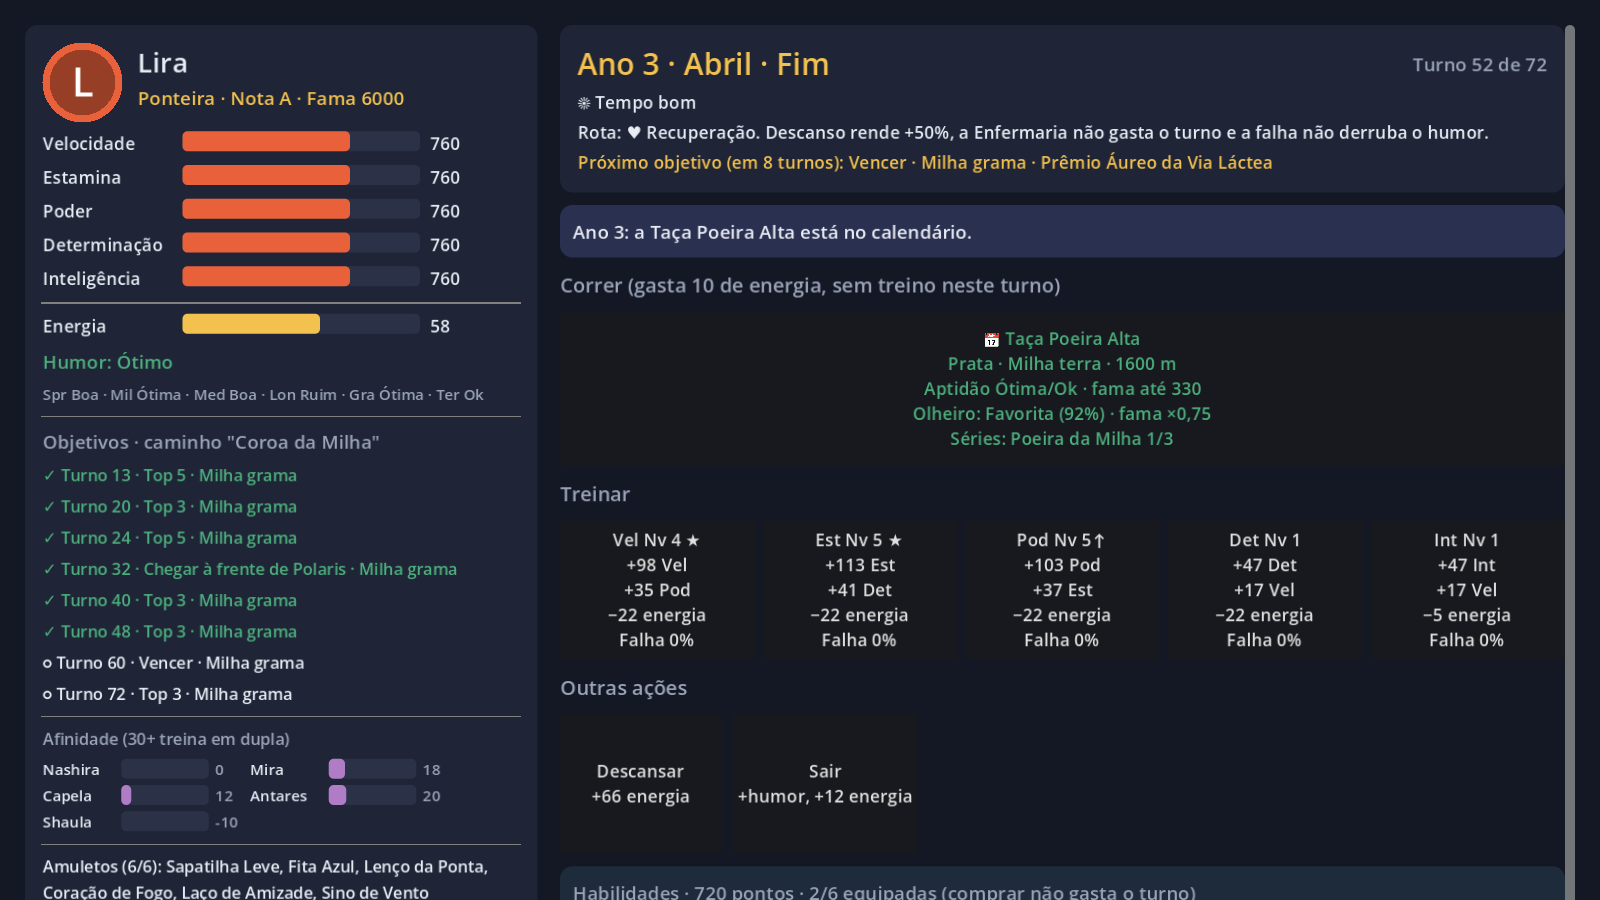
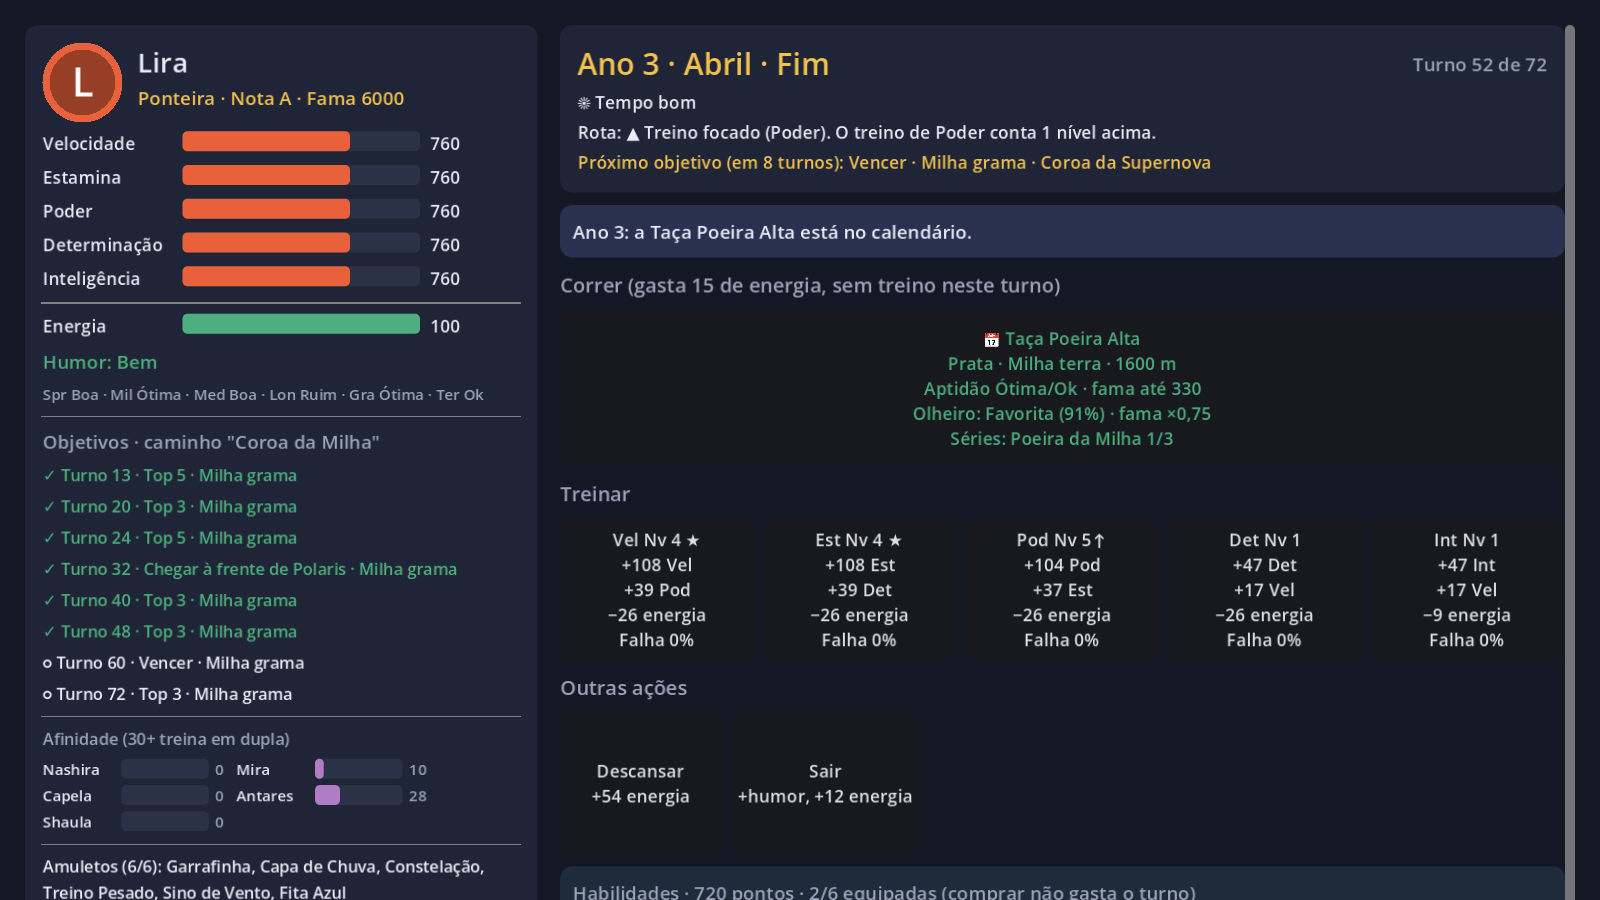
Resultados do bot com olheiro, instrução e séries; capturas novas
Conta nova 32,8% e conta madura 55,4% de carreiras completas, maior queda
por objetivo 18%.

Claude-Session: https://claude.ai/code/session_01PTJmZhAyiWUoRyeLfGbqx5

diff --git a/docs/campanhas.md b/docs/campanhas.md
@@ -1,5 +1,6 @@
 # Nekomusume — Campanhas e balanceamento
 
+> Versão 0.3 — 2026-11-17. Na v0.3 entraram o olheiro, a instrução pré-corrida, as séries e a madrinha no protótipo, e o bot rodou de novo (§7).
 > Versão 0.2 — 2026-11-17. Na v0.2 entraram os resultados do bot na carreira de 72 turnos (§7) e as regras de virada calibradas.
 > Versão 0.1 — 2026-11-17. Complementa o [calendário](calendario.md) §3 (estrutura da campanha) e o [elenco](elenco.md).
 > Valores marcados com **(inicial)** são pontos de partida para balanceamento.
@@ -542,43 +543,47 @@ Mexer sempre na ordem abaixo, um botão por vez, e rodar de novo:
 
 ## 7. Resultados
 
-Rodada de 2026-11-17 no protótipo de 72 turnos: **20 carreiras por garota e por conta** (sementes 1 a 20), as 48 garotas, 1.920 carreiras.
+Rodada de 2026-11-17 (v0.3), depois de entrarem o **olheiro**, a **instrução pré-corrida**, as **séries** e a **madrinha**: **20 carreiras por garota e por conta** (sementes 1 a 20), as 48 garotas, 1.920 carreiras. O bot agora corre só onde o olheiro diz Favorita ou Disputada e usa a instrução que ele sugere. A rodada anterior (v0.2, sem esses sistemas) deu 34,7% na conta nova e 55,9% na madura.
 
 ### 7.1 Conta nova
 
 | Objetivo | 1 (t13) | 2 (t20) | 3 (t24) | 4 (t32) | 5 (t40) | 6 (t48) | 7 (t60) | 8 (t72) |
 |---|---|---|---|---|---|---|---|---|
-| Passa | 93% | 84% | 75% | 65% | 57% | 48% | 41% | **35%** |
-| Queda de quem chega | 7% | 10% | 11% | 13% | 13% | 16% | 16% | 14% |
+| Passa | 93% | 83% | 72% | 58% | 51% | 45% | 38% | **33%** |
+| Queda de quem chega | 7% | 11% | 14% | 18% | 13% | 11% | 16% | 14% |
 
-- **Carreiras completas: 34,7%** (alvo 30% a 40%). Nenhum objetivo derruba mais de 16% de quem chega nele (teto 25%).
-- **Por casa:** de 31% (Média Grama e Milha Grama) a 38% (Longa Grama). Diferença de 7 pontos.
-- **Por arquétipo:** de 28% (Festeira) a 45% (Perfeccionista). Diferença de 17 pontos, acima da meta, mas cada arquétipo tem só 60 a 80 carreiras (±6 pontos de sorte). Fica para conferir numa rodada maior.
-- **Garotas:** de 25% a 50%, dentro do que a sorte explica com 20 carreiras cada.
-- **Curva de atributos:** 207 / 308 / 407 / 537 / 664 / 799 nos turnos 13, 24, 36, 48, 60 e 72 (alvo 200 / 330 / 460 / 590 / 700 / 800).
-- **18 corridas** por carreira (alvo 14 a 20). Fama média de 3.400 no turno 40.
-- **GP final vencido** em 30% das carreiras: é o ritmo para liberar a Magnitude 1.
-- **Depois da virada**, o caminho A completa 74% e o B 70%.
+- **Carreiras completas: 32,8%** (alvo ~35%, faixa de 30% a 40%). Nenhum objetivo derruba mais de 18% de quem chega nele (teto 25%). O mais duro é o objetivo 4 (turno 32), a primeira Prata.
+- **Por casa:** de 24% (Média Terra) a 40% (Sprint Terra). Diferença de 16 pontos, maior que os 7 da v0.2: a instrução Forçar ajuda muito na Sprint, e o multiplicador de distância da Sprint subiu de ×0,95 para ×0,99 para compensar.
+- **Por arquétipo:** de 26% (Capitã e Estrategista) a 45% (Teimosa). Diferença de 19 pontos, ainda acima da meta de 10.
+- **Garotas:** de 15% (Hamal) a 50%. Com 20 carreiras cada, a sorte explica ±11 pontos.
+- **Curva de atributos:** 207 / 311 / 416 / 551 / 680 / 812 nos turnos 13, 24, 36, 48, 60 e 72 (alvo 200 / 330 / 460 / 590 / 700 / 800).
+- **16,4 corridas** por carreira (alvo 14 a 20). Fama média de 2.840 no turno 40 (era 3.400): o olheiro dá ×0,75 nas corridas em que ela é Favorita.
+- **GP final vencido** em 29% das carreiras. Depois da virada, o caminho A completa 75% e o B 70%.
+- **Olheiro:** nas corridas do bot, 65% Favorita, 34% Disputada e 1% Azarão (o bot evita o Azarão de propósito, então é o jogador que arrisca quem vai ver mais).
+- **Instrução sugerida:** Forçar 42%, Poupar 42%, Normal 16%. Nenhuma é sempre a melhor (GDD §5.7 e `testes/instrucao.gd`).
+- **Títulos por carreira:** Coroa Dupla 0,42, Volta ao Céu 0,15, Tríplice da casa 0,12. A Coroa Dupla sai fácil demais (o bot não planeja rota e mesmo assim consegue), então vale ficar de olho.
 
 ### 7.2 Conta madura
 
 | Objetivo | 1 | 2 | 3 | 4 | 5 | 6 | 7 | 8 |
 |---|---|---|---|---|---|---|---|---|
-| Passa | 99% | 96% | 92% | 85% | 78% | 71% | 63% | **56%** |
+| Passa | 98% | 94% | 89% | 79% | 74% | 68% | 60% | **55%** |
+| Queda de quem chega | 2% | 4% | 6% | 11% | 6% | 8% | 12% | 8% |
 
-- **Carreiras completas: 55,9%** (alvo 50% a 60%), com o teto de **+25 por atributo** para vínculo + madrinha.
-- Por casa, de 51% a 61%. A curva fica uns 25 a 55 pontos acima da conta nova, e o GP final é vencido em 48% das carreiras.
-- Com o teto anterior (+50), a conta madura completava **73%**: o bônus inicial vira mais corridas, mais fama e mais atributos.
+- **Carreiras completas: 55,4%** (alvo ~55%), com a madrinha de nota ~700, vínculo 3 e o teto de **+25 por atributo**.
+- Por casa, de 50% a 61%. Curva 232 / 336 / 443 / 580 / 712 / 859, 22,7 corridas por carreira e GP final vencido em 50%.
+- Mais títulos: Coroa Dupla 0,86, Volta ao Céu 0,33 e Tríplice 0,29 por carreira.
 
 ### 7.3 Ponto de virada (conta nova)
 
 | Divisão no caminho A | Campanhas |
 |---|---|
-| 35% a 65% (dentro da meta) | Lira, Nashira, Mira, Capela, Antares, Shaula, Capitã, Competitiva, Curiosa, Durona, Estrategista, Estrela, Festeira, Perfeccionista, Sonhadora, Teimosa |
-| Perto do limite | Leal (34%), Misteriosa (34%) |
+| 35% a 65% (dentro da meta) | Capela, Lira, Mira, Shaula, Capitã, Competitiva, Curiosa, Estrategista, Estrela, Festeira, Perfeccionista, Sonhadora, Teimosa |
+| Perto do limite | Antares (67%), Nashira (67%), Leal (31%), Misteriosa (30%) |
+| Fora | Durona (76%) |
 
-- O bot quase não usa Sair e nunca se lesiona, então as regras de **saídas** e de **lesão** são as menos confiáveis aqui. Um jogador que sai mais com a garota vai para o caminho A da Leal e da Shaula com mais frequência.
-- Com conta madura, os caminhos de vitória ficam mais comuns (Durona e Perfeccionista com 80% no A). A meta de 35% a 65% vale para a conta nova.
+- Duas regras mudaram nesta rodada: a **Estrela** pede fama de **6000** (era 7500, porque a fama caiu com o olheiro) e a **Sonhadora** pede **4 vitórias de virada** (eram 2; com Poupar ela vira muito mais corridas e ia 96% para o A).
+- A **Durona** (vencer o GP do ano 2 sem lesão) ficou fácil porque a instrução certa aumenta a chance de vencer o GP. Fica para a próxima rodada, junto com a Leal e a Misteriosa, que dependem de escolhas que o bot faz ao acaso.
 
 ### 7.4 O que mudou para chegar aqui
 
@@ -591,20 +596,20 @@ Rodada de 2026-11-17 no protótipo de 72 turnos: **20 carreiras por garota e por
 | Força das NPCs | Fixa por categoria | Por categoria e por ano, × distância (calendário §2) |
 | Vínculo por nível | +8 | +4 |
 | Madrinha | +5%, teto 40 | +3%, teto 20; com o vínculo, teto 25 |
+| Força das NPCs (v0.3) | Estreia 170, Aberta 215/300/380, Prata 315/420, Ouro 380/455, GP 290/405/620 | Estreia 191, Aberta 241/321/407, Prata 337/449, Ouro 407/487, GP 320/421/663 (calendário §2) |
+| Multiplicador da Sprint (v0.3) | ×0,95 | ×0,99 |
 
 O ganho do treino caiu porque o semestre de base sozinho levava a garota a ~320 na Estreia. O bônus por nível e os atributos por corrida devolvem o crescimento nos anos 2 e 3, quando ela corre mais e treina menos.
 
 ### 7.5 Próximos passos
 
-- Rodar 100 carreiras por arquétipo para confirmar a diferença de 17 pontos entre arquétipos.
+- **Feito em 2026-11-17 (v0.3):** olheiro, séries e títulos, instrução pré-corrida (com o teste de que nenhuma é sempre a melhor), tela da madrinha, visual do elenco em `data/garotas.json` e a nova rodada do bot.
+- Rodar 100 carreiras por arquétipo para confirmar a diferença de 19 pontos entre arquétipos.
+- Recalibrar as viradas da Durona, da Leal e da Misteriosa.
+- Diminuir a distância entre as casas (Média Terra 24% contra Sprint Terra 40%).
+- Decidir se a Coroa Dupla deve ficar mais difícil (sai em 42% das carreiras sem planejar).
 - Testar com jogadores de verdade: o bot não planeja rota nem usa o calendário fixo de propósito.
-- Conferir as regras de virada da Leal e da Misteriosa numa próxima rodada.
-- **Olheiro** no protótipo (calendário §7.3): etiqueta de chance antes de cada corrida e o multiplicador de fama. O bot hoje usa uma conta simples no lugar dele.
-- **Séries e títulos** no protótipo (calendário §7.4): Tríplice da casa, Coroa Dupla e Volta ao Céu, com as recompensas.
-- **Instrução pré-corrida** no protótipo (GDD §5.7): Poupar, Normal e Forçar. Depois, rodar o bot de novo para conferir que nenhuma instrução é sempre a melhor.
-- **Tela da madrinha:** escolher a garota salva no começo da carreira. As regras já estão no código, mas só o bot usa.
-- **Capturas de tela** das telas novas (capítulos, objetivos do caminho, final): o `testes/capturas.gd` precisa de janela, então tem que rodar no PC.
-- Rodar o balanceamento de novo depois dessas entradas, porque o olheiro e as séries mudam quantas corridas a garota faz.
+- Mostrar o encontro de inspiração da madrinha (hoje o bônus dos turnos 25 e 49 acontece em silêncio).
 
 ## 8. Decisões pequenas tomadas aqui
 

diff --git a/README.md b/README.md
@@ -115,6 +115,10 @@ Com 30 carreiras por garota, o bot cumpre os objetivos em ~80% / 56% / 45% / 38%
 (~160 / 260 / 425 / 520 / 745). O bot é simples; quem planeja a rota e cuida do humor vai melhor.
 
 ![Escolha](docs/prototipo/1_escolha.png)
+![Madrinha](docs/prototipo/17_madrinha.png)
+![Olheiro e instrução](docs/prototipo/18_olheiro_objetivo.png)
+![Cartões com olheiro e séries](docs/prototipo/19_cartoes_olheiro.png)
+![Olheiro com série](docs/prototipo/20_olheiro_serie.png)
 ![Academia](docs/prototipo/9_academia.png)
 ![Pool](docs/prototipo/10_pool.png)
 ![Fim de carreira](docs/prototipo/11_fim_de_carreira.png)
